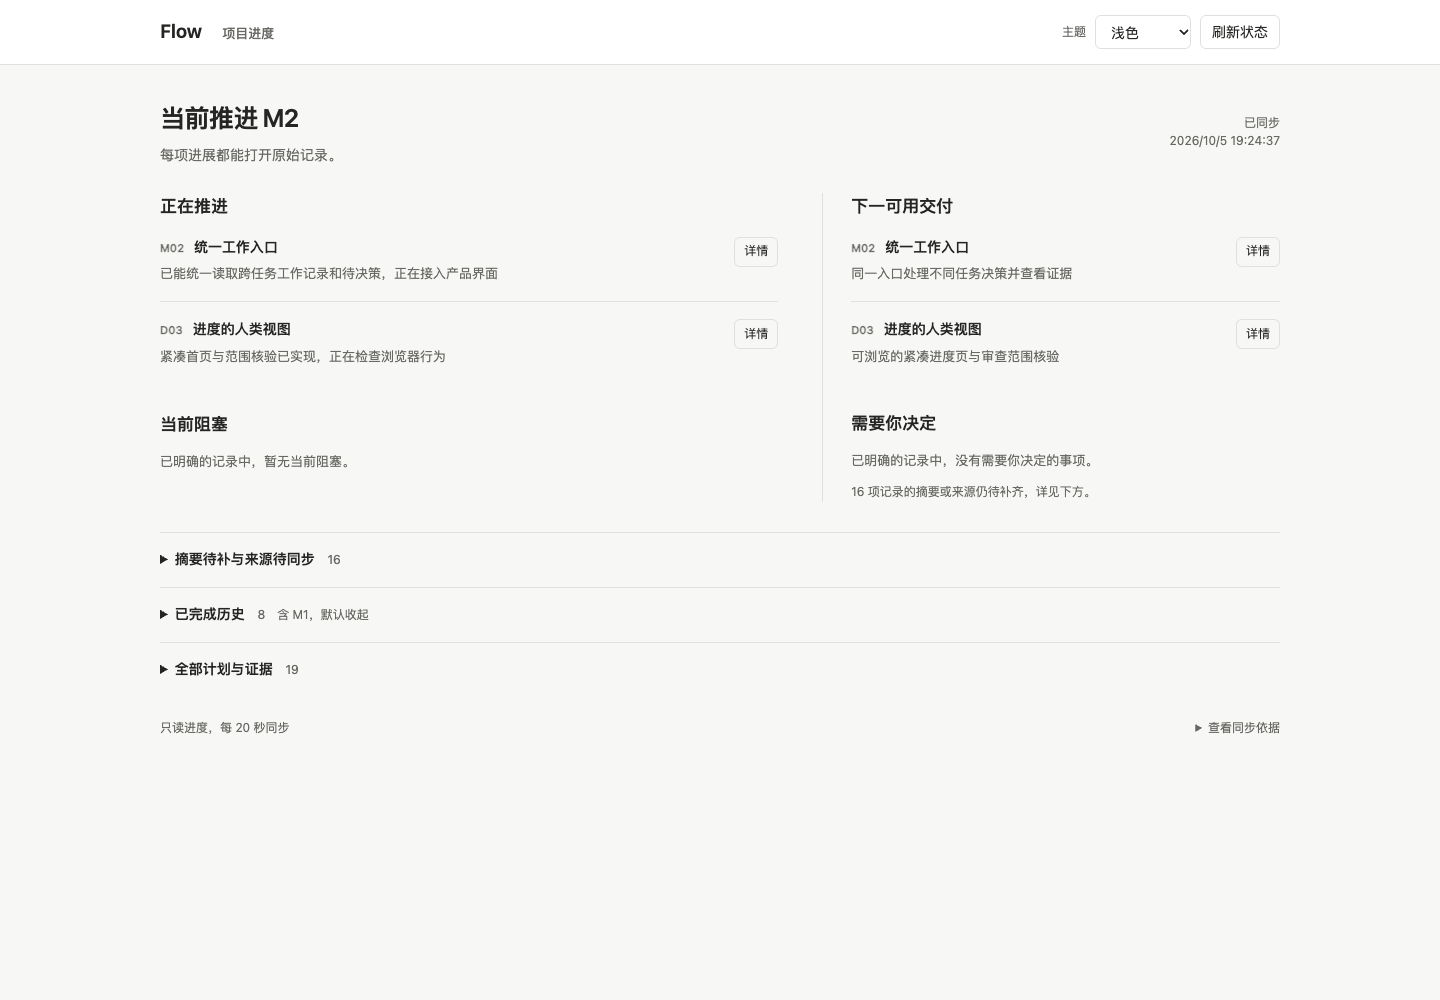
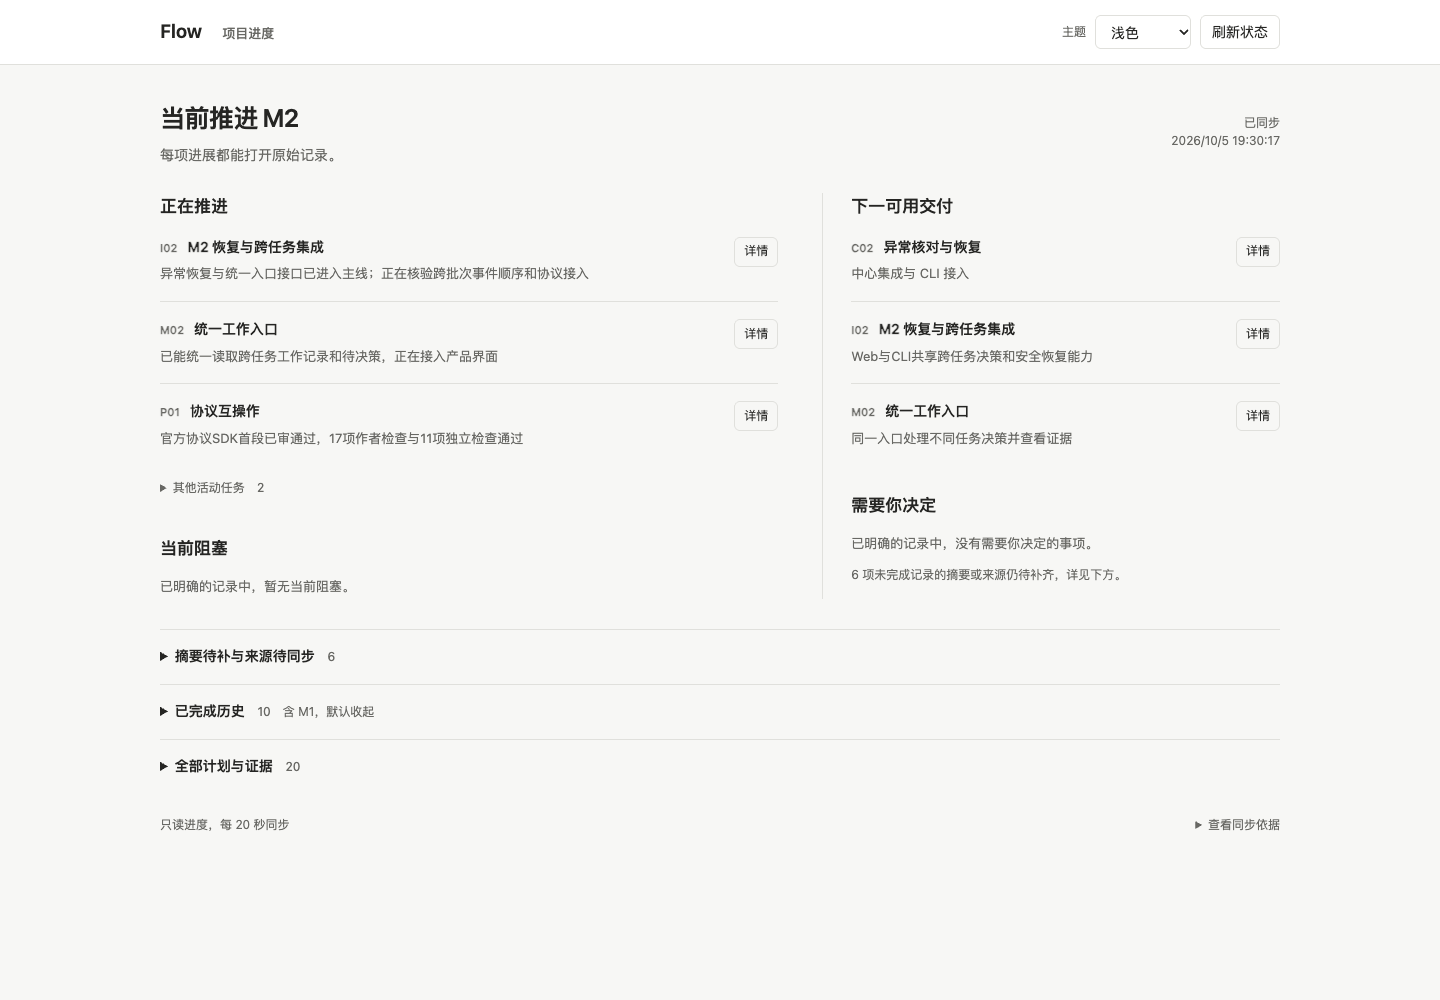
docs(d03): record final proof fix validation and independent approval

diff --git a/plans/d03-dashboard-human/status.md b/plans/d03-dashboard-human/status.md
@@ -2,32 +2,45 @@
 
 | 字段 | 记录 |
 | --- | --- |
-| 最近更新时间 | 2026-10-06 02:23 UTC |
+| 最近更新时间 | 2026-10-06 02:30 UTC |
 | 单一 status owner / model | runner_owner / gpt-6-astra |
 | Branch | codex/dashboard-human-view |
 | Worktree | /Users/citrine/Projects/AgentHarness/Flow-worktrees/dashboard-human-view |
-| 工作基线 / HEAD | d444608ab6c796c731e44e51a892868bf39bec2a |
-| 工作树 dirty 状态 | 开工时 clean；当前正在实现 |
-| 工作分支状态 | in-progress |
-| 检查状态 | NOT_RUN |
-| Review | NOT_STARTED |
-| 已集成 main 状态 / HEAD | D03 未集成，观察基线 d444608ab6c796c731e44e51a892868bf39bec2a |
+| 工作基线 / HEAD | d444608ab6c796c731e44e51a892868bf39bec2a / 260d53cb3d414b5bb87113ebb4e4c5df92127d4d（实现；本次仅交付 metadata） |
+| 工作树 dirty 状态 | 实现已提交；本次只更新 plans 与证据 metadata |
+| 工作分支状态 | completed；独立 review APPROVED，待集成部署 |
+| 检查状态 | PASSED target 260d53cb3d414b5bb87113ebb4e4c5df92127d4d；最终实现 21/21 Node + 真实 Chrome 四图/行为；独立复跑同范围通过；早期 typecheck 1005137 通过 |
+| Review | APPROVED；target 260d53cb3d414b5bb87113ebb4e4c5df92127d4d；[独立审查入口](review.md) |
+| 已集成 main 状态 / HEAD | D03 未集成；现场 main 108fddbd8261963f3d49088873b5a611b70a5dbf，2026-10-06 02:30 UTC 观察 |
 | 阶段 | M2 |
 | 优先级 | 2 |
-| 当前产出 | 紧凑首页与范围核验已实现，正在检查浏览器行为 |
-| 下一可用交付 | 可浏览的紧凑进度页与审查范围核验 |
+| 当前产出 | 紧凑进度首页已完成，已通过独立审查，浅深主题与证据追溯均已验证 |
+| 下一可用交付 | 由负责人集成并更新进度页面服务 |
 | 当前阻塞 | NONE |
 | 需用户决定 | NONE |
-| 实现目标 | UNKNOWN |
+| 实现目标 | 260d53cb3d414b5bb87113ebb4e4c5df92127d4d |
 | 实现范围 | apps/execution-dashboard/ |
 
 | TODO ID | 状态 | Owner | 完成证据/检查 |
 | --- | --- | --- | --- |
 | D03-01 | completed | runner_owner | plan.md 已记录已确认字段与设计 |
-| D03-02 | completed | runner_owner | 18 项首轮 Node 行为检查通过 |
-| D03-03 | completed | runner_owner | 19 来源已实际 HTTP 核对；紧凑浅深界面实现 |
-| D03-04 | in-progress | runner_owner | 实际浏览器行为检查中；首轮浏览器 URL 用法已修复 |
+| D03-02 | completed | runner_owner | 21/21 行为检查；[记录](../../docs/evidence/d03/node-tests.txt) |
+| D03-03 | completed | runner_owner | 20 来源，新增 I02 [实际 HTTP 核对](../../docs/evidence/d03/i02-source-check.json) |
+| D03-04 | completed | runner_owner | [浏览器结果](../../docs/evidence/d03/browser-checks.json)、类型检查、四图实际查看与 clean-code 完成 |
 
 ## 下一步与限制
 
-先验证语义，再真实浏览器检查。无模型调用；原 R02 5/5 预算不动。源缺摘要时显示待补，不从历史风险猜当前阻塞。实现范围未知保守，不自动继承 review。
+实现与验证完成，独立只读 review 已通过；由 Lead 正常更新 4320 服务，本 owner 未部署。无模型调用；原 R02 5/5 预算不动。源缺摘要时显示待补，不从历史风险猜当前阻塞。实现范围未知保守，不自动继承 review。
+
+
+## 截图与检查范围
+
+[桌面浅色](../../docs/evidence/d03/live-desktop-light.png) / [桌面深色](../../docs/evidence/d03/live-desktop-dark.png) / [窄屏浅色](../../docs/evidence/d03/live-narrow-light.png) / [窄屏深色](../../docs/evidence/d03/live-narrow-dark.png) / [阻塞样本](../../docs/evidence/d03/fixture-current-blocker.png)。四张真实源截图均已由 owner 实际查看；最终截图为 20 源；新增 top3 之外完整活动入口与历史缺口过滤后重新执行相关浏览器检查。实现 diff / 检查 target 详见[证据说明](../../docs/evidence/d03/README.md)。
+
+## Dashboard 同步
+
+02:30 UTC 在独占动态端口真实聚合 20 个来源，D03 自身 live/current。I02 status 内容与 HTTP 返回逐字相同。旧摘要缺失显示待补；未改他人状态。自己测试服务与浏览器已清理，4320 未触碰。
+
+## 独立审查结论
+
+assignment_review / gpt-6-astra 对实现 260d53cb3d414b5bb87113ebb4e4c5df92127d4d 给出 APPROVED。原 P2 已复审关闭：main 后续改变目标范围保留 historicalIntegrated=true，但 current=false。独立 Node 21/21、Chrome 154 / 动态端口 62820、四图实际逐张查看与全部行为通过。原始独立输出 /tmp/flow-d03-final-review-260d53c、/tmp/flow-d03-final-review-node.log；无模型/云/4320 操作。此版维持已审 20 源；Lead 可在集成点另登记已确认 WPF-M02 第 21 源，未混入本 target。

diff --git a/docs/evidence/d03/README.md b/docs/evidence/d03/README.md
@@ -7,3 +7,23 @@
 ## 工作段 clean-code
 
 - 02:19 UTC：检查既有 status/aggregate/UI/tests；发现历史风险被塞首屏、metadata HEAD 使 review/main 状态失真。计划分离 proof 与 summary，保留详情证据。
+
+- 02:26 UTC 交付前：复查 status/human/proof/UI/测试。修复范围外 docs 代码误算 metadata 的可能性（代码扩展保守未知，专门行为测试）；整理 CSS 可读结构；声明实现目标不可核验时不继承 review。未发现 owner 自查 blocking。没有新依赖或 root lock 变化。
+
+## 最终实现与实际检查
+
+最终实现 / 独立 review target：`260d53cb3d414b5bb87113ebb4e4c5df92127d4d`。Node 21/21（6.74s）覆盖最终 runtime 代码，提交前测试源码与提交后一致；之后只增加浏览器断言。冻结提交上的 Chrome 检查通过，20 个实际来源、top3 外活动展开、历史字段缺失不计当前提醒、浅深/1440px/390px、键盘/焦点、资料追溯、XSS 文本、读取失败恢复与 main 后继变化不继承绿色。四图均实际逐张查看。
+
+[检查摘要](checks.json)、[Node 输出](node-tests.txt)、[浏览器原始结果](browser-checks.json)、[I02 来源核对](i02-source-check.json)。browser sourceDirty 为真是本目录/计划 metadata；apps/execution-dashboard 对 sourceHead diff 为空，未宣称工作树整体 clean。早期 1005137 的 19/19 + typecheck 是历史检查；30d7b56 只做 I02 来源定向 1/1 和 HTTP 内容一致性，不能代替最终 21/21。最终源码修改为 MJS，不把仓库 TypeScript 检查误称 MJS 类型检查。
+
+截图：[桌面浅色](live-desktop-light.png)、[桌面深色](live-desktop-dark.png)、[窄屏浅色](live-narrow-light.png)、[窄屏深色](live-narrow-dark.png)。[明确阻塞样本](fixture-current-blocker.png)是隔离 Git/HTTP fixture，不冒充实际 blocker。首轮 browser 脚本相对 URL 用法失败已修复；一次截图瞬态重影经 theme 后 reload、ready 与两帧绘制等待消除。最终四图无重影，不使用 networkidle。
+
+## 独立 review / clean-code 收尾
+
+02:30 UTC：assignment_review / gpt-6-astra APPROVED 最终 target。独立 21/21 + Chrome154 / 动态62820 / 四图与全行为通过，原始输出 /tmp/flow-d03-final-review-260d53c、/tmp/flow-d03-final-review-node.log。原 P2（祖先直接当当前能力）在 260d53c 修复并独立关闭，historicalIntegrated 与 current 各有证据，修改/删除/dirty 不再绿色。owner 本段复查模块边界、字段命名、声明范围错误处理与新增/删除测试，无剩余 blocking。
+
+清理所有本任务浏览器与动态 server，临时预览 PID78311 已正常终止；未触碰 4320，不用 DB，0 模型 / 0 云。此版 20 源；Lead 后续另登记 WPF-M02，不把未审登记混进本提交。
+
+## 边界
+
+范围缺失/不存在或范围外新增代码保守未知。历史合入只说明目标曾进入 main；current 还需当前声明范围相同且无该范围 dirty，不把后继变化判为新实现失效。Git 读取不是事务级全仓库原子快照。旧源缺字段由各自 owner 补充；明确 completed 的历史摘要缺口仅留历史/详情，不作为当前警报。独立 review 已通过，集成部署仍由 Lead 执行。

diff --git a/plans/d03-dashboard-human/review.md b/plans/d03-dashboard-human/review.md
@@ -1,14 +1,30 @@
 # D03 独立审查
 
-**状态：NOT_STARTED**
+**状态：APPROVED**
 
-Review target commit：待提交实现完整 SHA。Base：d444608ab6c796c731e44e51a892868bf39bec2a。
+Review target commit：260d53cb3d414b5bb87113ebb4e4c5df92127d4d。Base：d444608ab6c796c731e44e51a892868bf39bec2a。
 Worktree：/Users/citrine/Projects/AgentHarness/Flow-worktrees/dashboard-human-view；branch：codex/dashboard-human-view。
 
 ## 可复制审查任务
 
 先核验 AGENTS/plans 规则、实际 branch/HEAD/dirty/base。只读审查 apps/execution-dashboard：结构化摘要不猜状态；声明范围 Git 核验包含新增/删除/未跟踪实现；main ancestry 不受无关 metadata 更新影响；旧源保守。复核 node tests 和浏览器证据的实际版本/范围，检查 desktop/narrow 浅深、键盘、溢出和完整证据追溯。报告 severity/blocking、路径与复现，交回 owner 修复；结论绑定完整 SHA，不把此空模板当批准。
 
-## 检查 / Findings / 结论
+## 独立检查与结论
 
-独立检查未执行。Findings 未评估。结论 NOT_STARTED。作者检查见 docs/evidence/d03，不能代替独立 review。修复与复审记录待真实发生后填写。
+Reviewer：assignment_review / gpt-6-astra；2026-10-06 02:30 UTC，owner 转录独立报告。实际源码 target 260d53cb3d414b5bb87113ebb4e4c5df92127d4d；sourceDirty 仅 metadata，apps/execution-dashboard 对 target diff 为空。
+
+- Node：独立 21/21 通过，/tmp/flow-d03-final-review-node.log。
+- 浏览器：实际 Chrome 154，独占动态端口 62820，20 源、其他活动入口、历史缺口过滤、键盘/资料/XSS/失败恢复/主题/390px 无溢出均通过；4 图逐张实际查看。
+- 输出：/tmp/flow-d03-final-review-260d53c。独立审查只读，不改项目文件；0 模型 / 0 云 / 无 4320 操作。
+
+## Findings 与修复
+
+| ID | Severity | Blocking | 发现 / 影响 | 修复 | 复审 |
+| --- | --- | --- | --- | --- | --- |
+| D03-R1 | P2 | 原阻塞，已关闭 | 旧 ancestry 分支在 main 后继改动/删除后仍 current=true，混淆历史接收与当前范围 | 260d53c 分离 historicalIntegrated；current 需声明范围树相同且无 main 范围 dirty，含新增/删除；UI 明确后继变化待核验 | 独立临时 Git 复现现为 historicalIntegrated=true/current=false；关闭 |
+
+APPROVED，未发现剩余 blocking。范围树只说明声明范围；后继变化待核验，不判断后继实现失效。0 模型，未做跨机器或多用户认证验证。早期 1005137 的 19/19 和首版截图只属历史；最终 260d53c 的 21/21 与最终浏览器记录独立列明。
+
+## 作者回应
+
+接受并修复 D03-R1，增加真实 Git 与浏览器断言。追加完整活动展开入口和历史缺口过滤。源码已冻结，本次只记录审查和最终证据，由 Lead 集成。

diff --git a/plans/d03-dashboard-human/plan.md b/plans/d03-dashboard-human/plan.md
@@ -1,6 +1,6 @@
 # D03 工程进度的人类视图
 
-创建 / 更新：2026-10-06。状态：in-progress。Owner：runner_owner / gpt-6-astra。
+创建 / 更新：2026-10-06。状态：completed。Owner：runner_owner / gpt-6-astra。
 
 目标：首屏说明当前阶段、正在推进的最多三件事、下一可用交付与真实用户决定；工程证据保留在详情。唯一事实源仍是各 owner status，不推测历史段落、不调用模型。
 
@@ -25,8 +25,10 @@ Flow / 项目进度                         主题 / 刷新
 ## TODO 与验收
 
 - [x] D03-01 确认规则/技能/字段与独占范围，登记方案。
-- [ ] D03-02 结构化摘要与审查/集成 proof，覆盖 missing/dirty/untracked/metadata/main ancestor。
-- [ ] D03-03 紧凑人类视图及完整证据下钻，登记 19 个唯一源。
-- [ ] D03-04 node tests + 真实浏览器四视图/键盘/溢出/追溯，clean-code 与交付证据。
+- [x] D03-02 结构化摘要与审查/集成 proof，覆盖 missing/dirty/untracked/metadata/main ancestor。
+- [x] D03-03 紧凑人类视图及完整证据下钻，登记 20 个唯一源。
+- [x] D03-04 node tests + 真实浏览器四视图/键盘/溢出/追溯，clean-code 与交付证据。
 
 范围：apps/execution-dashboard、此计划三文件、docs/evidence/d03。动态端口，不触碰 4320 服务。0 模型/云。全局模板和其他 owner status 由 Lead 管理。
+
+2026-10-06 02:26 UTC：完成实现与范围内检查；独立 review 已通过，绑定 260d53cb3d414b5bb87113ebb4e4c5df92127d4d。追加实际 I02 来源为第 20 源，原 19 源保留。检查与截图边界见 status，不将 branch 完成当部署。
